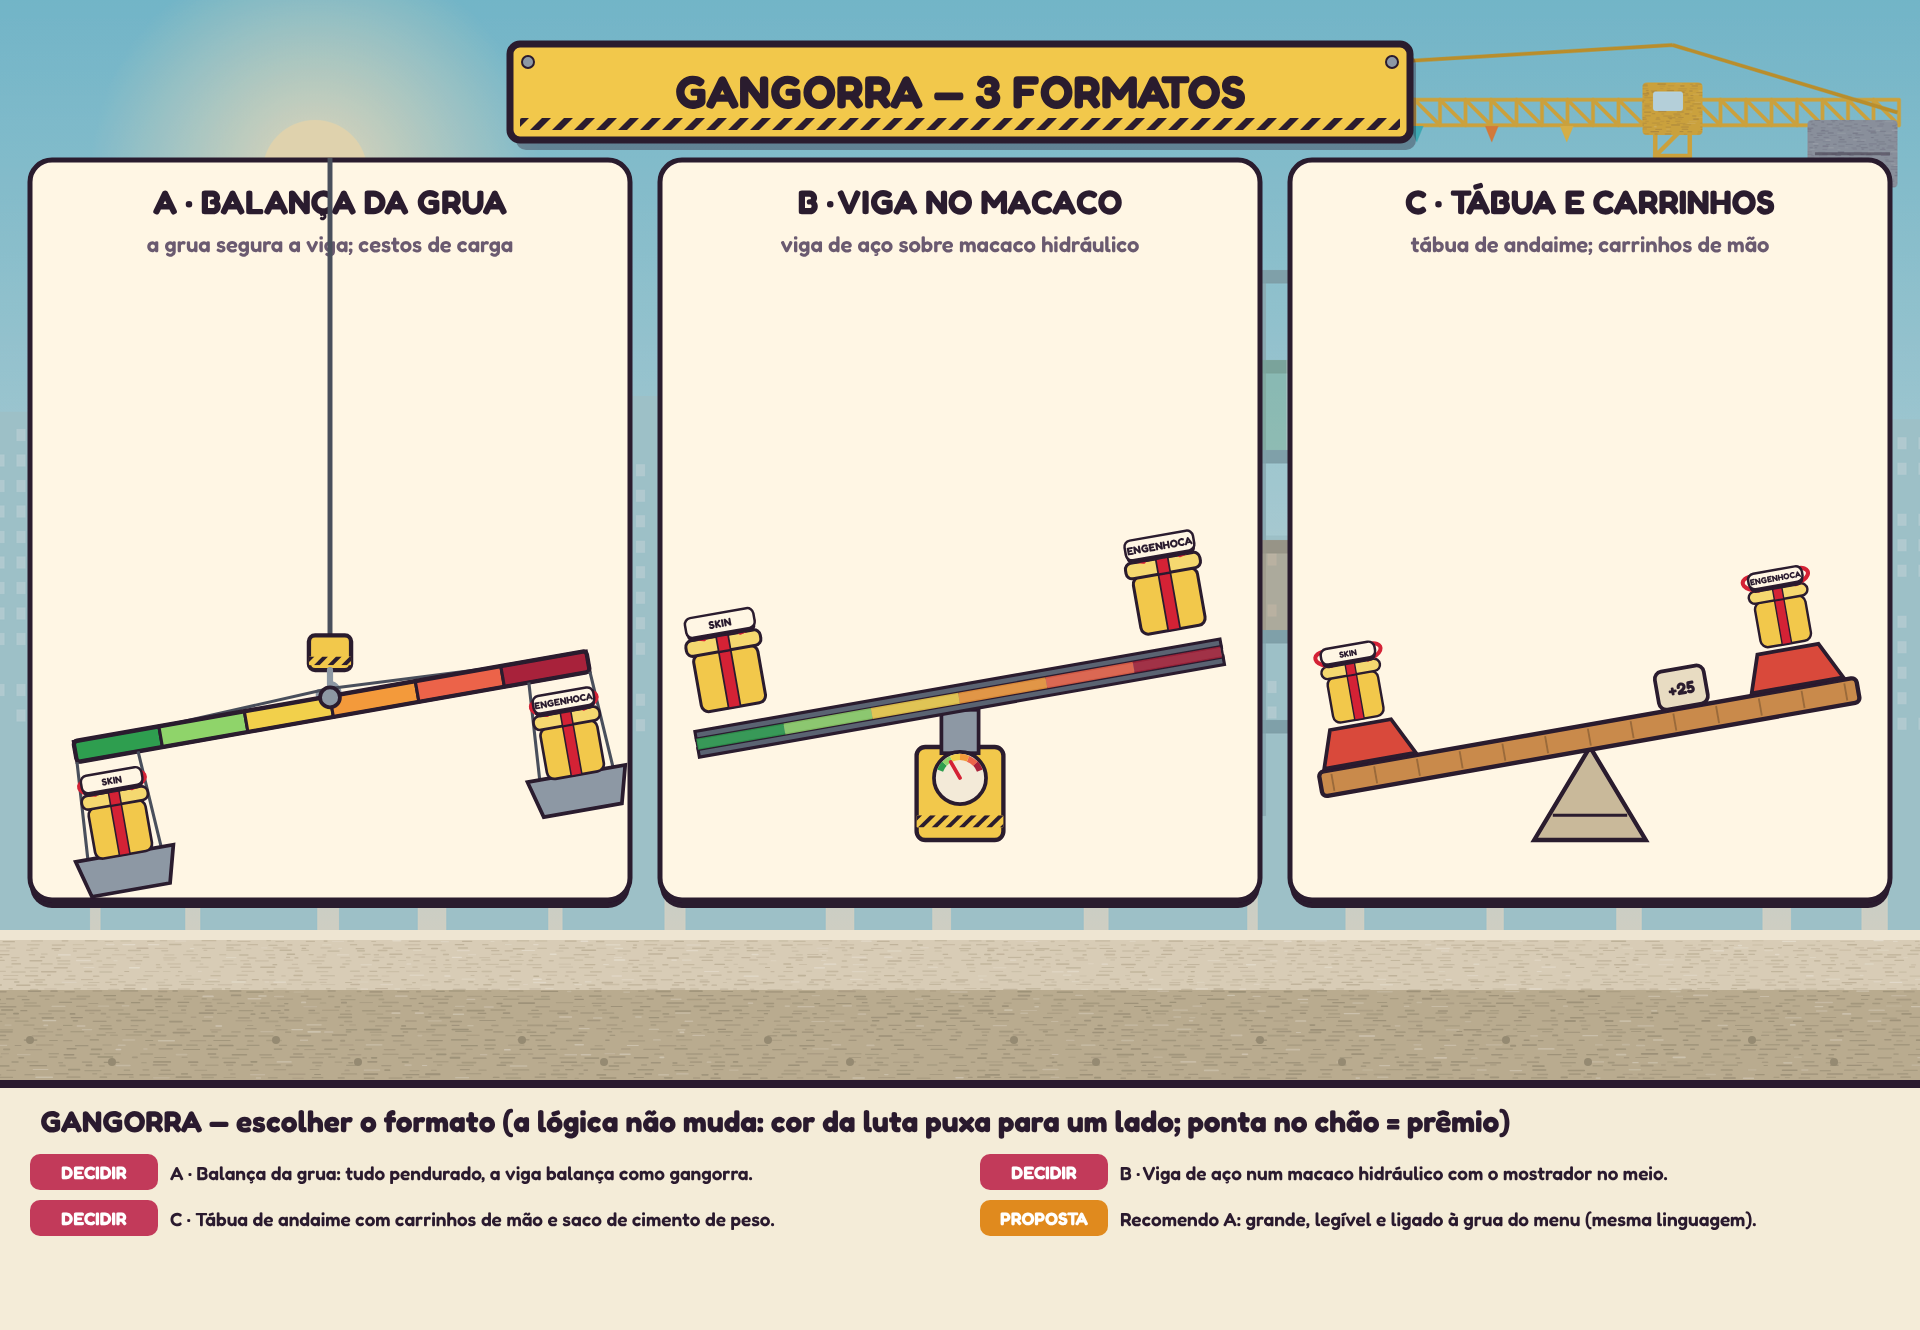
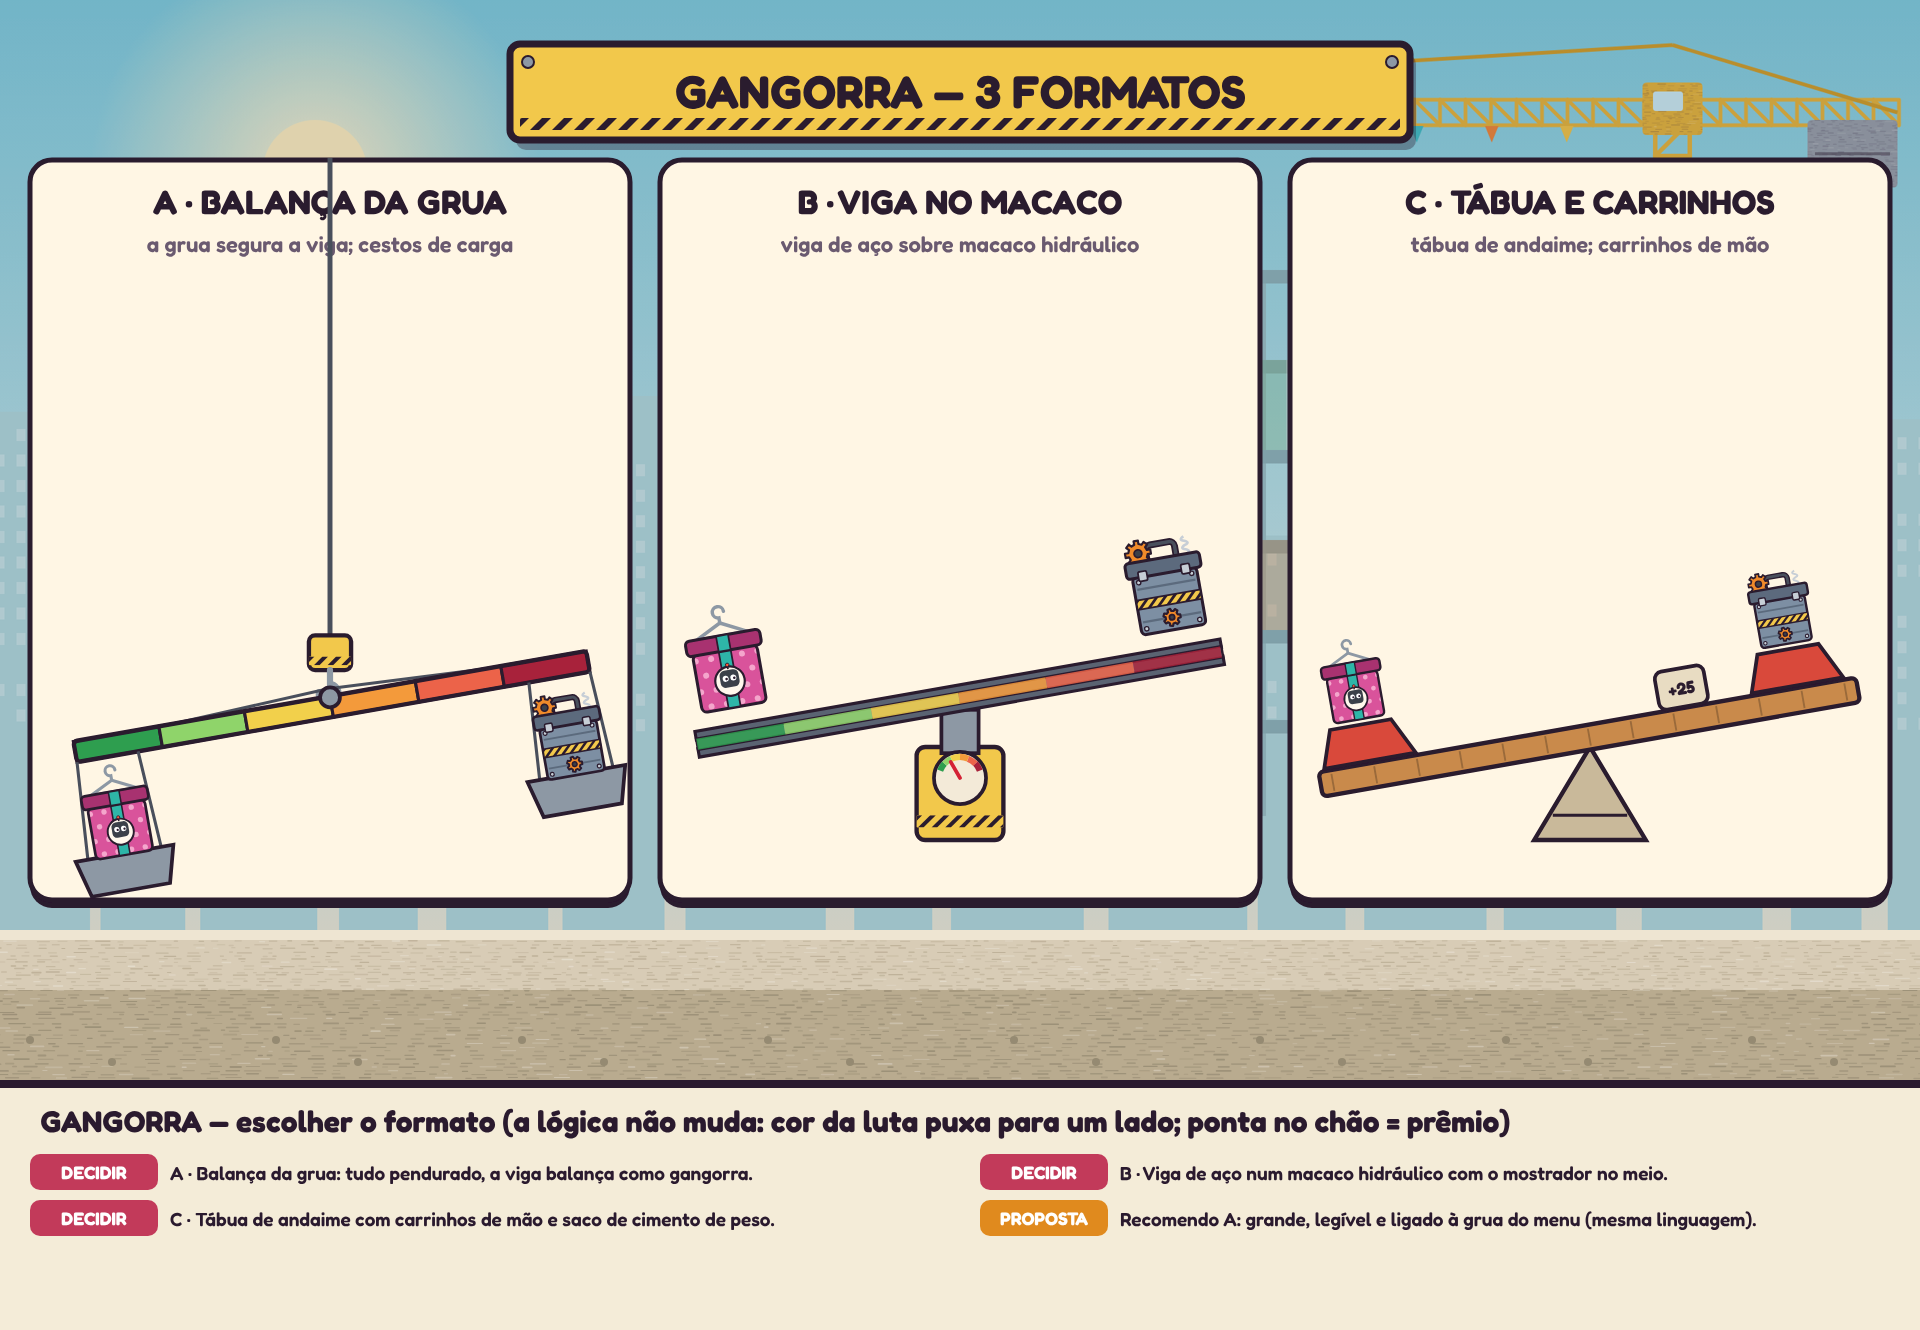
Prancha g3: caixas de presente por categoria (figurino, maleta, caixote); g2 com a caixa nova
Claude-Session: https://claude.ai/code/session_017desNJLabnbh98EwrZ9vQj

diff --git a/art/src/ui/recompensas_v2.py b/art/src/ui/recompensas_v2.py
@@ -19,25 +19,150 @@ OUT = os.path.join(ec.ROOT, "art/out/recompensas")
 ZC = [z[2] for z in ec.ZONAS]
 
 
-def presente(cx, cy, s=1.0, cat="SKIN", tampa=0.0, brilho=0.0):
-    """Caixa de presente de obra: caixote amarelo com fita zebrada em cruz e laço; tampa sobe com 'tampa' (0..1)."""
-    w = 150 * s
+# ---------- CAIXAS POR CATEGORIA (sem texto: a forma diz o que tem dentro) ----------
+SKIN_C, SKIN_E, SKIN_D, TEAL = "#d9539b", "#a8336f", "#f4a6cc", "#2fb5a8"
+ACO, ACO_E, LAR = "#7d8fa3", "#5b6b7d", "#f08a2b"
+MAD, MAD_E = "#c98a4a", "#94602c"
+
+
+def engrenagem(cx, cy, r, col, dentes=8, furo=True):
+    pts = []
+    for k in range(dentes * 2):
+        a0 = k * math.pi / dentes
+        rr = r if k % 2 == 0 else r * 0.74
+        for da in (-0.17, 0.17):
+            pts.append((cx + math.cos(a0 + da) * rr, cy + math.sin(a0 + da) * rr))
+    out = f'<polygon points="{" ".join(f"{x:.1f},{y:.1f}" for x, y in pts)}" fill="{col}" stroke="{INK}" stroke-width="5" stroke-linejoin="round"/>'
+    if furo:
+        out += f'<circle cx="{cx}" cy="{cy}" r="{r * 0.3:.1f}" fill="#3a3f4a" stroke="{INK}" stroke-width="4"/>'
+    return out
+
+
+def _cabide(y, roupa=False, col="#4f86d9"):
     b = []
+    if roupa:   # macacão de robô pendurado (a roupa nova)
+        b.append(f'<path d="M-56,{y + 36} L-20,{y + 18} Q0,{y + 34} 20,{y + 18} L56,{y + 36} L44,{y + 66} L30,{y + 60} L30,{y + 128} L-30,{y + 128} '
+                 f'L-30,{y + 60} L-44,{y + 66} Z" fill="{col}" stroke="{INK}" stroke-width="5" stroke-linejoin="round"/>')
+        b.append(fp.cd.zebra(-30, y + 92, 60, 12))
+        b.append(f'<circle cx="0" cy="{y + 70}" r="9" fill="{YEL}" stroke="{INK}" stroke-width="4"/>')
+    b.append(f'<path d="M-60,{y + 36} L0,{y + 6} L60,{y + 36} Z" fill="none" stroke="#8d98a4" stroke-width="8" stroke-linejoin="round"/>'
+             f'<path d="M0,{y + 6} v-12 a13,13 0 1 1 13,-13" stroke="#8d98a4" stroke-width="8" fill="none" stroke-linecap="round"/>')
+    return "".join(b)
+
+
+def caixa(cat, cx, cy, s=1.0, tampa=0.0, brilho=0.0, rot=0.0):
+    """Caixa de presente que DIZ o prêmio pela forma (sem palavra):
+    skin   = caixa de figurino (rosa de bolinhas, fita turquesa, cabide saindo pela tampa, selo com cara de robô);
+    spell  = maleta de ferramentas de aço (faixa zebrada, rebites, alça; engrenagem laranja e mola no lugar do laço);
+    evento = caixote de madeira (tábuas, travessa, pregos; placa de alerta; sirene giratória em cima)."""
+    cat = {"SKIN": "skin", "ENGENHOCA": "spell", "EVENTO": "evento"}.get(cat, cat)
+    b = [f'<g transform="translate({cx},{cy}) rotate({rot}) scale({s})">']
     if brilho > 0:
         for k in range(14):
             a = k * math.pi / 7
-            b.append(f'<path d="M{cx},{cy} L{cx + math.cos(a) * 320 * s * brilho:.0f},{cy + math.sin(a) * 320 * s * brilho:.0f} '
-                     f'L{cx + math.cos(a + 0.2) * 320 * s * brilho:.0f},{cy + math.sin(a + 0.2) * 320 * s * brilho:.0f}Z" fill="#fff4c8" opacity="0.8"/>')
-    b.append(f'<rect x="{cx - w / 2}" y="{cy - w / 2 + 16 * s}" width="{w}" height="{w - 16 * s}" rx="12" fill="{YEL}" stroke="{INK}" stroke-width="{7 * s:.1f}"/>')
-    b.append(f'<rect x="{cx - 14 * s}" y="{cy - w / 2 + 16 * s}" width="{28 * s}" height="{w - 16 * s}" fill="#d42035" stroke="{INK}" stroke-width="{4 * s:.1f}"/>')
-    ty = cy - w / 2 + 16 * s - 240 * s * tampa
-    rot = -35 * tampa
-    b.append(f'<g transform="rotate({rot} {cx} {ty})"><rect x="{cx - w / 2 - 12 * s}" y="{ty - 34 * s}" width="{w + 24 * s}" height="{36 * s}" rx="10" fill="#f5d870" stroke="{INK}" stroke-width="{7 * s:.1f}"/>'
-             f'<rect x="{cx - 14 * s}" y="{ty - 34 * s}" width="{28 * s}" height="{36 * s}" fill="#d42035" stroke="{INK}" stroke-width="{4 * s:.1f}"/>'
-             f'<path d="M{cx},{ty - 34 * s} c-40,-50 -80,-10 -30,0 M{cx},{ty - 34 * s} c40,-50 80,-10 30,0" stroke="#d42035" stroke-width="{12 * s:.1f}" fill="none" stroke-linecap="round"/></g>')
-    if cat and tampa < 0.05:
-        b.append(ec.chunk(cx - 80 * s, cy - w / 2 - 70 * s, 160 * s, 46 * s, CREAM, 10, 4, 6) + ec.T(cx, cy - w / 2 - 37 * s, cat, int(26 * s)))
+            r = 320 * brilho
+            b.append(f'<path d="M0,0 L{math.cos(a) * r:.0f},{math.sin(a) * r:.0f} L{math.cos(a + 0.2) * r:.0f},{math.sin(a + 0.2) * r:.0f}Z" fill="#fff4c8" opacity="0.8"/>')
+    ty, tr, tx = -200 * tampa, 40 * tampa, 190 * tampa   # a tampa voa para o lado e libera a vista do conteúdo
+    # conteúdo que salta quando abre
+    if tampa > 0.05:
+        if cat == "skin":
+            b.append(_cabide(-150 - 120 * tampa, True))
+        elif cat == "spell":
+            b.append(f'<path d="M0,-50 ' + " ".join(f"q{(-1) ** k * 26},-8 0,-{16 + 10 * tampa:.0f}" for k in range(7)) + f'" stroke="#c7ced6" stroke-width="7" fill="none"/>')
+            b.append(engrenagem(-70, -150 - 60 * tampa, 34, LAR) + engrenagem(64, -120 - 90 * tampa, 26, "#c7ced6"))
+        else:
+            for a in (-60, -20, 20, 60):
+                b.append(f'<path d="M0,-70 L{math.sin(math.radians(a)) * 300:.0f},{-70 - math.cos(math.radians(a)) * 300:.0f} '
+                         f'L{math.sin(math.radians(a + 12)) * 300:.0f},{-70 - math.cos(math.radians(a + 12)) * 300:.0f}Z" fill="#ff5a3c" opacity="0.55"/>')
+    # corpo
+    if cat == "skin":
+        b.append(f'<clipPath id="cxs"><rect x="-75" y="-59" width="150" height="134" rx="12"/></clipPath>')
+        b.append(f'<rect x="-75" y="-59" width="150" height="134" rx="12" fill="{SKIN_C}"/><g clip-path="url(#cxs)">')
+        for i in range(5):
+            for j in range(4):
+                b.append(f'<circle cx="{-70 + i * 36 + (j % 2) * 18}" cy="{-44 + j * 36}" r="7" fill="{SKIN_D}"/>')
+        b.append(f'</g><rect x="-75" y="-59" width="150" height="134" rx="12" fill="none" stroke="{INK}" stroke-width="7"/>')
+        b.append(f'<rect x="-14" y="-59" width="28" height="134" fill="{TEAL}" stroke="{INK}" stroke-width="4"/>')
+        b.append(f'<circle cx="0" cy="14" r="34" fill="#fff8ec" stroke="{INK}" stroke-width="5"/>'
+                 f'<path d="M0,-14 v-8" stroke="{INK}" stroke-width="4"/><circle cx="0" cy="-24" r="4" fill="#ff5a3c" stroke="{INK}" stroke-width="2"/>'
+                 f'<rect x="-22" y="-12" width="44" height="40" rx="12" fill="#3a3f4a"/>'
+                 f'<circle cx="-9" cy="7" r="7" fill="#fff"/><circle cx="9" cy="7" r="7" fill="#fff"/>'
+                 f'<circle cx="-7" cy="8" r="3" fill="{INK}"/><circle cx="11" cy="8" r="3" fill="{INK}"/>')
+    elif cat == "spell":
+        b.append(f'<rect x="-75" y="-59" width="150" height="134" rx="10" fill="{ACO}" stroke="{INK}" stroke-width="7"/>')
+        for yy in (-30, 46):
+            b.append(f'<path d="M-68,{yy} H68" stroke="{ACO_E}" stroke-width="5"/>')
+        b.append(fp.cd.zebra(-75, -6, 150, 22) + f'<rect x="-75" y="-6" width="150" height="22" fill="none" stroke="{INK}" stroke-width="4"/>')
+        for x, y in ((-62, -46), (62, -46), (-62, 62), (62, 62)):
+            b.append(f'<circle cx="{x}" cy="{y}" r="5" fill="#c7ced6" stroke="{INK}" stroke-width="3"/>')
+        b.append(f'<circle cx="0" cy="44" r="0"/>' + engrenagem(0, 46, 20, LAR, 7))
+    else:
+        b.append(f'<rect x="-75" y="-59" width="150" height="134" rx="6" fill="{MAD}" stroke="{INK}" stroke-width="7"/>')
+        for yy in (-14, 31):
+            b.append(f'<path d="M-72,{yy} H72" stroke="{MAD_E}" stroke-width="5"/>')
+        b.append(f'<path d="M-66,66 L66,-50" stroke="{MAD_E}" stroke-width="14" stroke-linecap="round"/>')
+        for x, y in ((-64, -50), (64, -50), (-64, 66), (64, 66)):
+            b.append(f'<circle cx="{x}" cy="{y}" r="4" fill="#4a4f5c"/>')
+        b.append(f'<path d="M0,-34 L36,30 H-36 Z" fill="{YEL}" stroke="{INK}" stroke-width="6" stroke-linejoin="round"/>'
+                 f'<path d="M0,-14 v22" stroke="{INK}" stroke-width="8" stroke-linecap="round"/><circle cx="0" cy="20" r="5" fill="{INK}"/>')
+    # tampa + enfeite de cima (no lugar do laço)
+    b.append(f'<g transform="translate({tx:.0f},{ty:.0f}) rotate({tr:.0f} 0 -75)">')
+    if cat == "skin":
+        if tampa <= 0.05:
+            b.append(_cabide(-128))
+        b.append(f'<rect x="-87" y="-93" width="174" height="36" rx="10" fill="{SKIN_E}" stroke="{INK}" stroke-width="7"/>'
+                 f'<rect x="-14" y="-93" width="28" height="36" fill="{TEAL}" stroke="{INK}" stroke-width="4"/>')
+    elif cat == "spell":
+        b.append(f'<path d="M-34,-93 v-22 a12,12 0 0 1 12,-12 h44 a12,12 0 0 1 12,12 v22" stroke="{INK}" stroke-width="16" fill="none"/>'
+                 f'<path d="M-34,-93 v-22 a12,12 0 0 1 12,-12 h44 a12,12 0 0 1 12,12 v22" stroke="#4a4f5c" stroke-width="8" fill="none"/>')
+        if tampa <= 0.05:
+            b.append(f'<path d="M58,-93 ' + " ".join(f"q{(-1) ** k * 14},-4 0,-10" for k in range(4)) + f'" stroke="#c7ced6" stroke-width="6" fill="none"/>')
+            b.append(engrenagem(-52, -112, 30, LAR))
+        b.append(f'<rect x="-87" y="-93" width="174" height="36" rx="8" fill="{ACO_E}" stroke="{INK}" stroke-width="7"/>')
+        for x in (-50, 50):
+            b.append(f'<rect x="{x - 10}" y="-70" width="20" height="22" rx="4" fill="#c7ced6" stroke="{INK}" stroke-width="4"/>')
+    else:
+        if tampa <= 0.05 or True:
+            b.append(f'<rect x="-30" y="-108" width="60" height="16" rx="4" fill="#4a4f5c" stroke="{INK}" stroke-width="5"/>'
+                     f'<path d="M-24,-108 v-24 a24,24 0 0 1 48,0 v24 Z" fill="#ff5a3c" stroke="{INK}" stroke-width="6"/>'
+                     f'<path d="M-10,-120 a10,10 0 0 1 10,-10" stroke="#ffd0c4" stroke-width="6" fill="none" stroke-linecap="round"/>')
+            for a in (-150, -30):
+                ax, ay = math.cos(math.radians(a)), math.sin(math.radians(a))
+                b.append(f'<path d="M{ax * 40:.0f},{-120 + ay * 40:.0f} L{ax * 62:.0f},{-120 + ay * 62:.0f}" stroke="#ff5a3c" stroke-width="7" stroke-linecap="round"/>')
+        b.append(f'<rect x="-87" y="-93" width="174" height="36" rx="5" fill="{MAD_E}" stroke="{INK}" stroke-width="7"/>'
+                 f'<path d="M-30,-93 v36 M30,-93 v36" stroke="{INK}" stroke-width="4"/>')
+    b.append("</g></g>")
     return "".join(b)
+
+
+def presente(cx, cy, s=1.0, cat="SKIN", tampa=0.0, brilho=0.0):
+    return caixa(cat or "SKIN", cx, cy, s, tampa, brilho)
+
+
+def tela_caixas():
+    b = [mv.fundo(0.15), mv.chao(930), mv.placa(960, 44, 1000, 96, "CAIXAS QUE DIZEM O PRÊMIO", True)]
+    cats = [("skin", "SKIN", "caixa de figurino: bolinhas, cabide saindo,", "selo com cara de robô"),
+            ("spell", "ENGENHOCA", "maleta de aço: zebrada, rebites, alça,", "engrenagem e mola no lugar do laço"),
+            ("evento", "EVENTO", "caixote de madeira: tábuas, placa de", "alerta, sirene em cima")]
+    for i, (c, nome, l1, l2) in enumerate(cats):
+        x = 30 + i * 630
+        b.append(ec.chunk(x, 160, 600, 650, CREAM, 22, 5, 8))
+        b.append(ec.T(x + 300, 214, nome, 34))
+        b.append(caixa(c, x + 170, 480, 1.25))
+        b.append(f'<rect x="{x + 330}" y="250" width="250" height="430" rx="16" fill="#3a3f55"/>')
+        b.append(f'<clipPath id="ab{i}"><rect x="{x + 330}" y="250" width="250" height="430" rx="16"/></clipPath><g clip-path="url(#ab{i})">'
+                 + caixa(c, x + 430, 610, 0.8, tampa=0.6, brilho=0.6) + "</g>")
+        b.append(ec.T(x + 455, 282, "ABRINDO", 20, "#ffffff"))
+        b.append(ec.T(x + 300, 735, l1, 22, "#2a4a58", w=600) + ec.T(x + 300, 765, l2, 22, "#2a4a58", w=600))
+    b.append(ec.chunk(30, 836, 1860, 76, CREAM, 18, 5, 6))
+    b.append(ec.T(960, 884, "Na gangorra A, os cestos levam essas caixas: o jogador vê de longe se a ponta é roupa, arma ou evento.", 24, INK, w=600))
+    n = ec.notes("CAIXAS — o presente mostra a categoria pela forma, sem escrever (proposta)", [
+        ("APROVADO", "Gangorra A · Balança da grua (escolha do usuário, 2026-11-27)."),
+        ("PROPOSTA", "Skin = figurino com cabide · Engenhoca = maleta de aço · Evento = caixote com sirene."),
+        ("PROPOSTA", "Abrindo: sobe o cabide com a roupa / pulam mola e engrenagens / a sirene gira."),
+        ("PROPOSTA", "A mesma caixa voa ao centro e abre nos 5 tempos (prancha g2 refeita com ela)."),
+    ])
+    return ec.page(f'<g filter="url(#rough)">{"".join(b)}</g>', n, rough(seed=23, scale=0.6, freq=0.05))
 
 
 def regua_cores(cx, cy, R1, R2):
@@ -157,7 +282,7 @@ def tela_presente():
             b.append(f'<g transform="rotate(-12 {cx} {cy})">{presente(cx, cy, 1.1, "SKIN")}</g>')
         elif i == 3:
             b.append(f'<rect x="{x}" y="{y}" width="{pw}" height="{ph}" fill="#1a1a2a" opacity="0.5"/>')
-            b.append(presente(cx, cy + 40, 1.1, "", tampa=0.6, brilho=1.0))
+            b.append(presente(cx, cy + 40, 1.1, "SKIN", tampa=0.6, brilho=1.0))
             for k in range(18):
                 a = k * 0.35
                 b.append(f'<rect x="{cx + math.cos(a) * (60 + k * 6):.0f}" y="{cy - 60 + math.sin(a) * (40 + k * 5):.0f}" width="10" height="16" fill="{["#d42035", "#5cc45c", "#4f86d9", YEL][k % 4]}" transform="rotate({k * 37} {cx} {cy})"/>')
@@ -249,7 +374,10 @@ def tela_mapas_grade():
 
 def main():
     os.makedirs(OUT, exist_ok=True)
-    boards = [("g1_gangorra_formatos", tela_formatos()), ("g2_presente", tela_presente()), ("m1_mapas_grade", tela_mapas_grade())]
+    boards = [("g3_caixas", tela_caixas()), ("g1_gangorra_formatos", tela_formatos()), ("g2_presente", tela_presente()), ("m1_mapas_grade", tela_mapas_grade())]
+    so = [a.split("=", 1)[1].split(",") for a in sys.argv if a.startswith("--so=")]
+    if so:
+        boards = [bd for bd in boards if bd[0] in so[0]]
     import json, subprocess, tempfile
     tmp = tempfile.mkdtemp(prefix="recompensas2_")
     jobs = []
